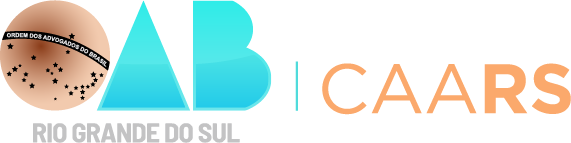
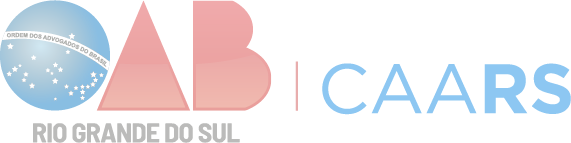
fix: cleanup unused code, unify duplicates, and improve dark mode
- Extract shared shuffle() to utils.ts, remove duplicates from clients.ts and testimonials.ts
- Remove unused EMAIL export from config.ts
- Delete orphaned vitest.config.ts
- Improve dark mode card contrast (--card lightness 4% -> 11%)
- Fix FAQ cards using --background instead of --card
- Fix testimonials cards to match differentials style in dark mode
- Fix client logos without dark variant being hidden (`:only-child` rule)
- Apply mix-blend-mode: lighten only to JPG logos (Ouro e Prata)
- Regenerate all PNG dark logos preserving original hue colors
- Trim Competence logo whitespace for better visibility
- Upscale CEITEC dark logo for improved sharpness

diff --git a/src/modules/testimonials.ts b/src/modules/testimonials.ts
@@ -1,3 +1,5 @@
+import { shuffle } from './utils';
+
 interface Testimonial {
   text: string;
   name: string;
@@ -6,15 +8,6 @@ interface Testimonial {
 const QUOTE_ICON = `<svg class="testimonials__quote-icon" xmlns="http://www.w3.org/2000/svg" width="32" height="32" viewBox="0 0 24 24" fill="none" stroke="currentColor" stroke-width="2" stroke-linecap="round" stroke-linejoin="round"><path d="M16 3a2 2 0 0 0-2 2v6a2 2 0 0 0 2 2 1 1 0 0 1 1 1v1a2 2 0 0 1-2 2 1 1 0 0 0-1 1v2a1 1 0 0 0 1 1 6 6 0 0 0 6-6V5a2 2 0 0 0-2-2z"/><path d="M5 3a2 2 0 0 0-2 2v6a2 2 0 0 0 2 2 1 1 0 0 1 1 1v1a2 2 0 0 1-2 2 1 1 0 0 0-1 1v2a1 1 0 0 0 1 1 6 6 0 0 0 6-6V5a2 2 0 0 0-2-2z"/></svg>`;
 
 const STAR_ICON = `<svg xmlns="http://www.w3.org/2000/svg" width="16" height="16" viewBox="0 0 24 24" fill="currentColor" stroke="currentColor" stroke-width="2"><polygon points="12 2 15.09 8.26 22 9.27 17 14.14 18.18 21.02 12 17.77 5.82 21.02 7 14.14 2 9.27 8.91 8.26 12 2"/></svg>`;
-
-function shuffle<T>(array: T[]): T[] {
-  const shuffled = [...array];
-  for (let i = shuffled.length - 1; i > 0; i--) {
-    const j = Math.floor(Math.random() * (i + 1));
-    [shuffled[i], shuffled[j]] = [shuffled[j], shuffled[i]];
-  }
-  return shuffled;
-}
 
 function createCard(testimonial: Testimonial, delay: number): string {
   const stars = STAR_ICON.repeat(5);

diff --git a/src/modules/clients.ts b/src/modules/clients.ts
@@ -1,3 +1,5 @@
+import { shuffle } from './utils';
+
 interface Client {
   name: string;
   logo: string;
@@ -7,15 +9,6 @@ interface Client {
 const DISPLAY_COUNT = 8;
 
 const BUILDING_ICON = `<svg xmlns="http://www.w3.org/2000/svg" width="28" height="28" viewBox="0 0 24 24" fill="none" stroke="currentColor" stroke-width="1.5" stroke-linecap="round" stroke-linejoin="round"><path d="M6 22V4a2 2 0 0 1 2-2h8a2 2 0 0 1 2 2v18Z"/><path d="M6 12H4a2 2 0 0 0-2 2v6a2 2 0 0 0 2 2h2"/><path d="M18 9h2a2 2 0 0 1 2 2v9a2 2 0 0 1-2 2h-2"/><path d="M10 6h4"/><path d="M10 10h4"/><path d="M10 14h4"/><path d="M10 18h4"/></svg>`;
-
-function shuffle<T>(array: T[]): T[] {
-  const shuffled = [...array];
-  for (let i = shuffled.length - 1; i > 0; i--) {
-    const j = Math.floor(Math.random() * (i + 1));
-    [shuffled[i], shuffled[j]] = [shuffled[j], shuffled[i]];
-  }
-  return shuffled;
-}
 
 function createCard(client: Client, delay: number): string {
   const base = import.meta.env.BASE_URL;

diff --git a/src/styles/clients.css b/src/styles/clients.css
@@ -87,9 +87,19 @@ img.clients__logo--dark {
   display: none;
 }
 
+.dark img.clients__logo--light:only-child {
+  display: block;
+  filter: brightness(1.1);
+}
+
 .dark img.clients__logo--dark {
   display: block;
   opacity: 0.7;
+}
+
+.dark img.clients__logo--dark[src*=".jpg"] {
+  mix-blend-mode: lighten;
+  opacity: 1;
 }
 
 .dark .clients__card:hover .clients__logo--dark {

diff --git a/src/modules/utils.ts b/src/modules/utils.ts
@@ -1,0 +1,8 @@
+export function shuffle<T>(array: T[]): T[] {
+  const shuffled = [...array];
+  for (let i = shuffled.length - 1; i > 0; i--) {
+    const j = Math.floor(Math.random() * (i + 1));
+    [shuffled[i], shuffled[j]] = [shuffled[j], shuffled[i]];
+  }
+  return shuffled;
+}

diff --git a/src/styles/dark-mode.css b/src/styles/dark-mode.css
@@ -97,6 +97,11 @@
   color: hsl(0, 0%, 100%);
 }
 
+/* Dark testimonials: match differentials card style */
+.dark .testimonials__card {
+  background-color: hsl(var(--background));
+}
+
 /* Dark mode image adjustments */
 .dark img {
   filter: brightness(0.9);

diff --git a/src/styles/service-page.css b/src/styles/service-page.css
@@ -232,7 +232,7 @@
   gap: 1rem;
   padding: 2rem 1.5rem;
   border-radius: 0.75rem;
-  background-color: hsl(var(--background));
+  background-color: hsl(var(--card));
   border: 1px solid hsl(var(--border));
   transition: all 0.3s ease;
 }

diff --git a/src/styles/variables.css b/src/styles/variables.css
@@ -29,7 +29,7 @@
 .dark {
   --background: 40 18% 5%;
   --foreground: 40 20% 95%;
-  --card: 40 18% 4%;
+  --card: 40 12% 11%;
   --card-foreground: 40 20% 95%;
   --primary: 90 50% 45%;
   --primary-foreground: 40 18% 5%;

diff --git a/src/modules/config.ts b/src/modules/config.ts
@@ -1,4 +1,3 @@
 export const WHATSAPP_NUMBER = '5551984843008';
 export const WHATSAPP_DISPLAY = '(51) 98484-3008';
-export const EMAIL = 'arbopodasejardinagem@gmail.com';
 export const BASE_PATH = '/';
